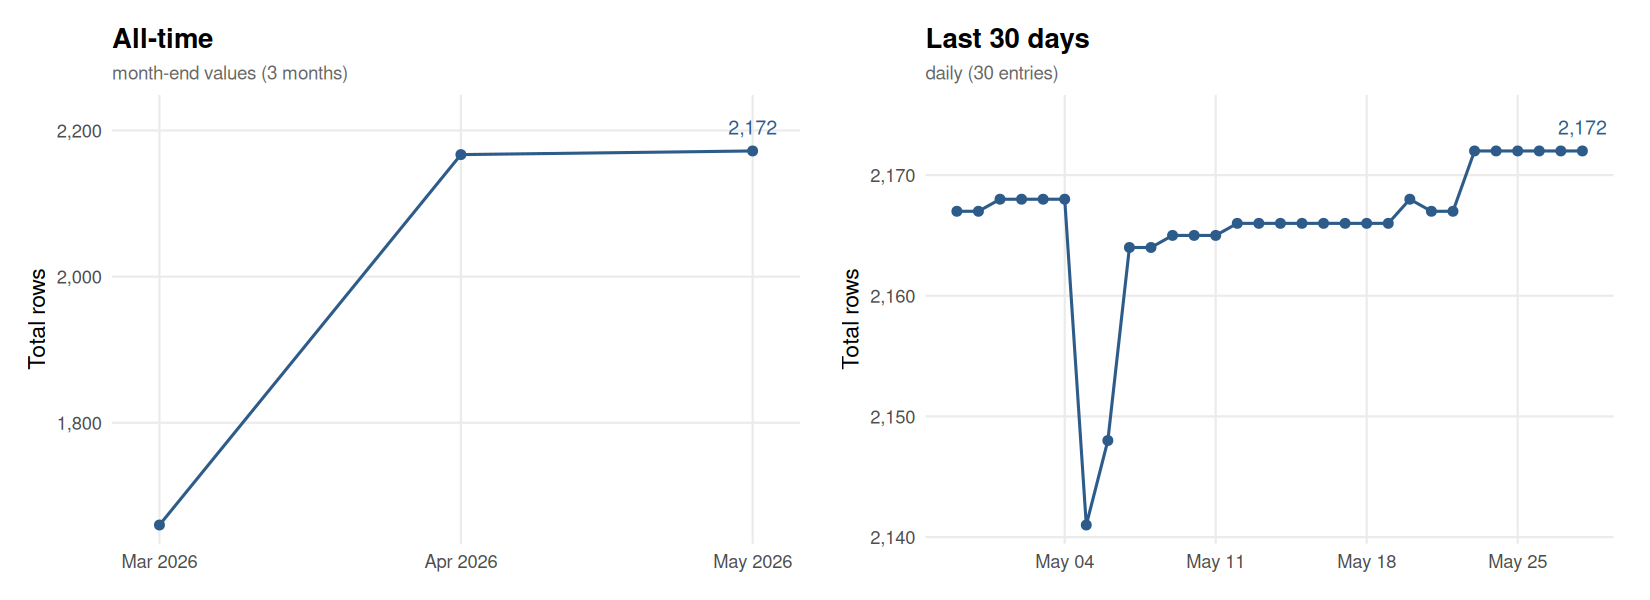
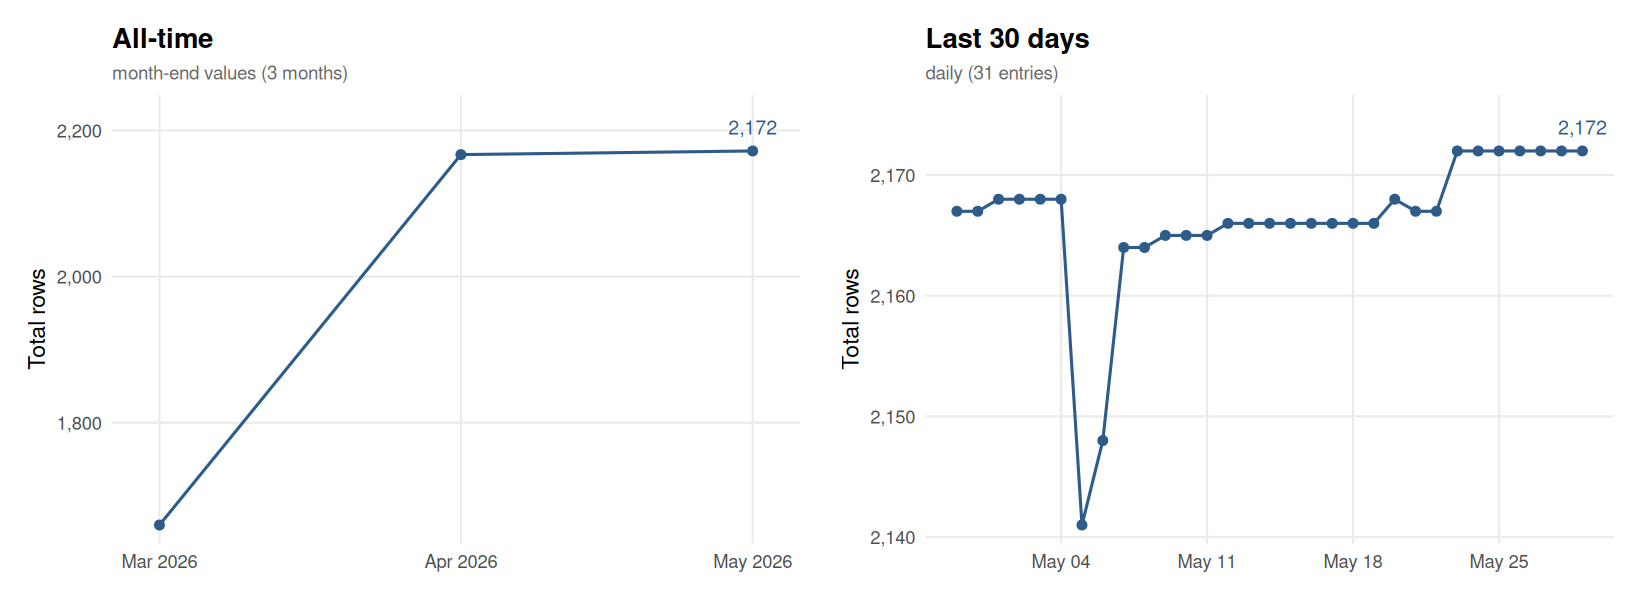
Update flora.csv [automated]

diff --git a/README.md b/README.md
@@ -438,14 +438,15 @@ For API issues:
 This chart is automatically updated after each pipeline run, showing the size of `output/flora.csv` over time.
 
 <!-- FLORA_UPDATE_LOG_START -->
-> **Latest (2026-05-28):** Total = 2,172 | Replications = 2,163 | Reproductions = 9
+> **Latest (2026-05-29):** Total = 2,172 | Replications = 2,163 | Reproductions = 9
 
 ![FLoRA dataset size over time](output/flora_history.png)
 
-<details><summary>Full history (70 entries)</summary>
+<details><summary>Full history (71 entries)</summary>
 
 | Date | Total | Replications | Reproductions |
 |------|------:|-------------:|--------------:|
+| 2026-05-29 | 2172 | 2163 | 9 |
 | 2026-05-28 | 2172 | 2163 | 9 |
 | 2026-05-27 | 2172 | 2163 | 9 |
 | 2026-05-26 | 2172 | 2163 | 9 |
